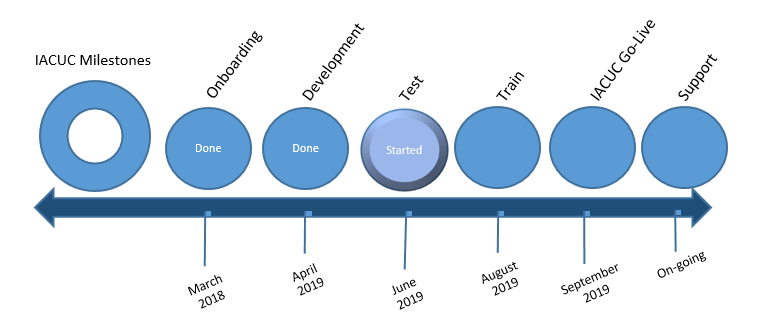
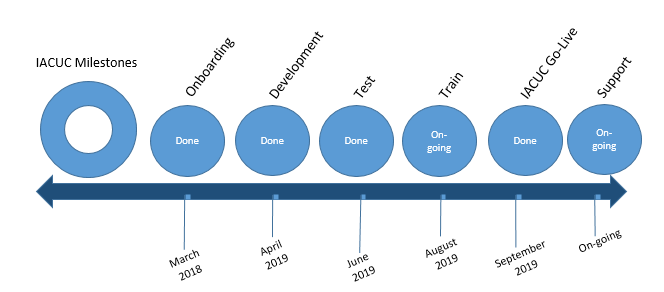
Wahoo websites updated 7

diff --git a/index.html b/index.html
@@ -178,15 +178,9 @@
 					</ul>
 				</div>
             </div>
-            <div class="text-center"><br>
-                <a href="#irbproject" class="my-button btn btn-xl">
-                        IRB Project
-                </a>
-            </div>
 
-			<hr class="hidden-xs hidden-sm">	
 			<div class="row text-center">
-				<div class="col-lg-12">
+				<div class="col-md-6 col-sm-12">
 				
 					<h4 class="service-heading">Phase 3 Scope</h4>
 					<ul class="text-muted text-left col-lg-8 col-lg-offset-2">
@@ -196,9 +190,52 @@
 					</ul>
 				</div>
 			</div>
-			<hr class="hidden-xs hidden-sm">	
-			<a name="irbproject"></a>
+
 			<!-- create expanded text column under this button -->
+            <div class="col-lg-12" style="margin-top: 30px;">
+              <hr class="hidden-xs hidden-sm" style="margin:auto; width:75%;">
+              <div class="text-center">
+               <h3 class="section-subheading text-center text-muted" id="grants">Grants Project</h3><br/>
+               <h4 class="service-heading">Grants Timeline</h4>
+               <img class="img-responsive" src="img/grantsTimeline.png"> <br/><br/>
+               <h4 class="service-heading">Important Information</h4>
+             </div>
+                <ul id="basics" class="cd-faq-group" style="list-style-type:none">
+                  <li>
+                      <a class="cd-faq-trigger" href="#0">
+                          <span class="glyphicon glyphicon-menu-down more-less" aria-hidden="true"></span>
+                          What is it? 
+                      </a>
+                      <div class="cd-faq-content">
+                          <p>Huron Grants is a comprehensive solution for proposal submission and award management. The system ensures successful proposal creation and budget development, electronic submission to Grants.gov, and post-award management capabilities including award setup, modification entry, and budget reconciliation to enter and track sponsor approved budgets.</p>
+                      </div> <!-- cd-faq-content -->
+                  </li>
+
+                  <li>
+                      <a class="cd-faq-trigger" href="#0">
+                          <span class="glyphicon glyphicon-menu-down more-less" aria-hidden="true"></span>
+                          Why is it important?
+                      </a>
+                      <div class="cd-faq-content">
+                          <p>Migrating from ARGIS to Huron Grants will provide ease of use for principle investigators (PIs), reviewers, and the Office of Research to complete actions within the system. The reports and metrics from Huron Grants are more advanced and will provide better insight into submission details. Improvements to routing and business processes will make contract submissions more efficient.</p>
+                      </div> <!-- cd-faq-content -->
+                  </li>
+
+                  <li>
+                      <a class="cd-faq-trigger" href="#0">
+                          <span class="glyphicon glyphicon-menu-down more-less" aria-hidden="true"></span>
+                          When will it be implemented?
+                      </a>
+                      <div class="cd-faq-content">
+                          <p>Go-Live of Huron Grants is planned for October 21, 2019.</p>
+                      </div> <!-- cd-faq-content -->
+                  </li>
+                </ul>
+            <div class="text-center"><br><br><br><br><br>
+            </div>
+            </div>
+            
+            <hr class="hidden-xs hidden-sm" style="margin:auto; width:75%;">
 			<div class="row text-center center">
 				<div class="col-lg-12 text-center">
                 	
@@ -239,12 +276,12 @@
                                 When will it be implemented?
                             </a>
                             <div class="cd-faq-content">
-                                <p>Go Live is planned for December 21, 2018. The decision to implement the IRB module of the Huron Research Suite first was made based on the timing of the Common Rule regulations changes (set for January 2019), the scope of IRB, and the Huron upgrade schedule (scheduled for 2020). </p>
+                                <p>Huron IRB was successfully released on December 21, 2018. The decision to implement the IRB module of the Huron Research Suite first was made based on the timing of the Common Rule regulation changes (set for January 2019), the scope of IRB, and the Huron upgrade schedule.</p>
                             </div> <!-- cd-faq-content -->
                         </li>
                       </ul>
                       <br/>
-                      <h4 class="service-heading text-center">FAQ</h4>
+                      <h4 class="service-heading text-center">IRB FAQ</h4>
                       <ul id="basics" class="cd-faq-group" style="list-style-type:none"> 
                         <li>
                             <a class="cd-faq-trigger" href="#0">
@@ -378,7 +415,7 @@ For any study that has been approved by the IRB Office, Faculty Advisors should 
                       When will it be implemented?
                   </a>
                   <div class="cd-faq-content">
-                      <p>Go-Live of Non-Financial Agreements in Huron is planned for the end of June 2019. Go-Live of Financial Agreements in Huron is planned for November 2019, in conjunction with Huron Grants.</p>
+                      <p>Non-Financial Agreements in Huron was successfully released on June 17, 2019. Go-Live of Financial Agreements in Huron is planned for October 21, 2019, in conjunction with Huron Grants.</p>
                   </div> <!-- cd-faq-content -->
               </li>
             </ul>
@@ -386,47 +423,7 @@ For any study that has been approved by the IRB Office, Faculty Advisors should 
           </div>
           <br/>
           <br/>
-         <div class="col-lg-12" style="margin-top: 30px;">
-          <hr class="hidden-xs hidden-sm" style="margin:auto; width:75%;">
-          <div class="text-center">
-           <h3 class="section-subheading text-center text-muted" id="grants">Grants Project</h3><br/>
-           <h4 class="service-heading">Grants Timeline</h4>
-           <img class="img-responsive" src="img/grantsTimeline.png"> <br/><br/>
-           <h4 class="service-heading">Important Information</h4>
-         </div>
-            <ul id="basics" class="cd-faq-group" style="list-style-type:none">
-              <li>
-                  <a class="cd-faq-trigger" href="#0">
-                      <span class="glyphicon glyphicon-menu-down more-less" aria-hidden="true"></span>
-                      What is it? 
-                  </a>
-                  <div class="cd-faq-content">
-                      <p>Huron Grants is a comprehensive solution for proposal submission and award management. The system ensures successful proposal creation and budget development, electronic submission to Grants.gov, and post-award management capabilities including award setup, modification entry, and budget reconciliation to enter and track sponsor approved budgets.</p>
-                  </div> <!-- cd-faq-content -->
-              </li>
-
-              <li>
-                  <a class="cd-faq-trigger" href="#0">
-                      <span class="glyphicon glyphicon-menu-down more-less" aria-hidden="true"></span>
-                      Why is it important?
-                  </a>
-                  <div class="cd-faq-content">
-                      <p>Migrating from ARGIS to Huron Grants will provide ease of use for principle investigators (PIs), reviewers, and the Office of Research to complete actions within the system. The reports and metrics from Huron Grants are more advanced and will provide better insight into submission details. Improvements to routing and business processes will make contract submissions more efficient.</p>
-                  </div> <!-- cd-faq-content -->
-              </li>
-
-              <li>
-                  <a class="cd-faq-trigger" href="#0">
-                      <span class="glyphicon glyphicon-menu-down more-less" aria-hidden="true"></span>
-                      When will it be implemented?
-                  </a>
-                  <div class="cd-faq-content">
-                      <p>Go-Live of Huron Grants is planned for November 2019.</p>
-                  </div> <!-- cd-faq-content -->
-              </li>
-            </ul>
-            <hr class="hidden-xs hidden-sm" style="margin:auto; width:75%;">
-            
+         <div class="col-lg-12" style="margin-top: 30px;">            
             <div class="text-center">
              <h3 class="section-subheading text-center text-muted" id="grants">IACUC Project</h3><br/>
              <h4 class="service-heading">IACUC Timeline</h4>
@@ -460,7 +457,7 @@ For any study that has been approved by the IRB Office, Faculty Advisors should 
                         When will it be implemented?
                     </a>
                     <div class="cd-faq-content">
-                        <p>Go Live of Huron IACUC is scheduled for September 2019.</p>
+                        <p>Huron IACUC was successfully released on September 23, 2019.</p>
                     </div> <!-- cd-faq-content -->
                 </li>
               </ul>
@@ -693,7 +690,20 @@ For any study that has been approved by the IRB Office, Faculty Advisors should 
                         <p>Huron Agreements (for non-financial agreements) was successfully released into production on June 17, 2019.</p>
                     </div> <!-- cd-faq-content -->
                 </li>
-           
+
+                <li>
+                    <a class="cd-faq-trigger" href="#0">Huron 9.0 Upgrade for IRB and Agreements <span class="glyphicon glyphicon-menu-down more-less" aria-hidden="true"></span></a>
+                    <div class="cd-faq-content">
+                        <p>Both Huron IRB and Huron Agreements were successfully upgraded to version 9.0 on September 7, 2019.</p>
+                    </div> <!-- cd-faq-content -->
+                </li>
+
+                <li>
+                    <a class="cd-faq-trigger" href="#0">Huron IACUC Go Live <span class="glyphicon glyphicon-menu-down more-less" aria-hidden="true"></span></a>
+                    <div class="cd-faq-content">
+                        <p>Huron IACUC was successfully released into production on September 23, 2019.</p>
+                    </div> <!-- cd-faq-content -->
+                </li>    
             
             </ul> <!-- cd-faq-group -->
             <div class="text-center"><br>
